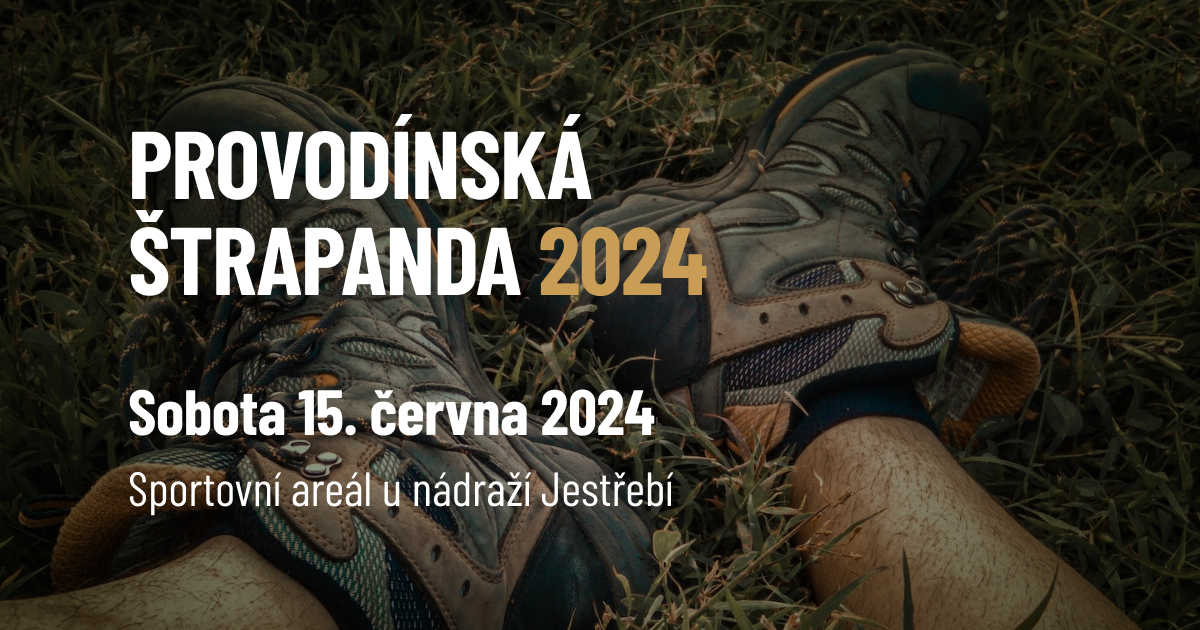
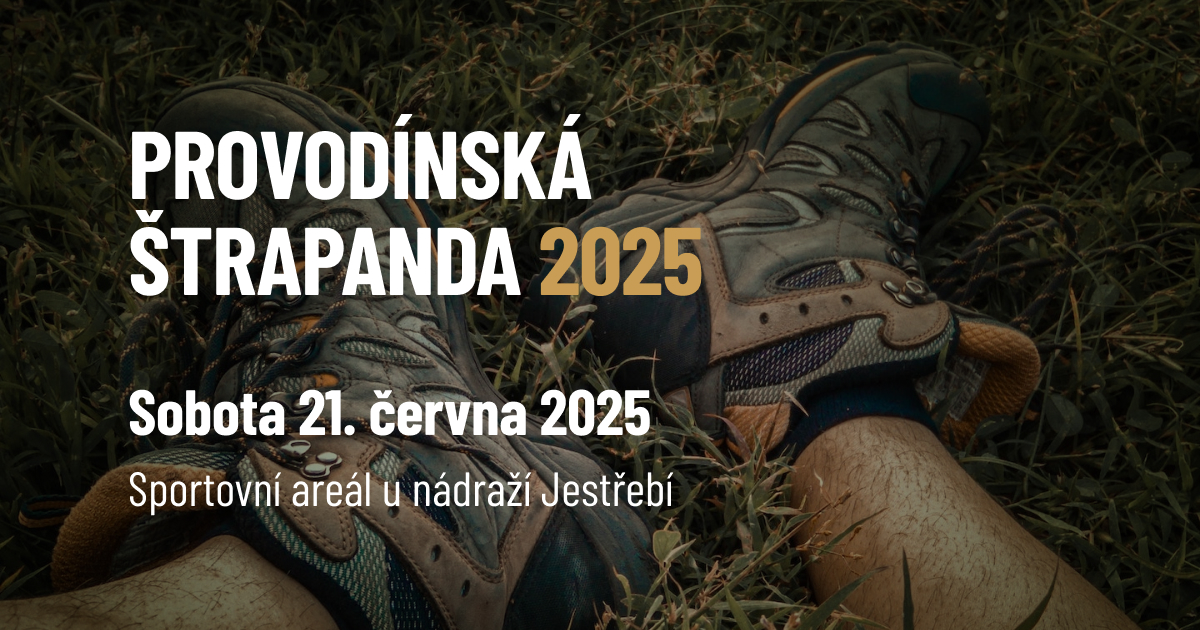
Prepare for next year

Changed region(s): [[0.2467, 0.6032, 0.555, 0.6937], [0.555, 0.3619, 0.5858, 0.4825]]

diff --git a/src/configs/structured-data.ts b/src/configs/structured-data.ts
@@ -3,9 +3,9 @@ import type { Event, WithContext } from 'schema-dts';
 export const eventStructuredData: WithContext<Event> = {
   '@context': 'https://schema.org',
   '@type': 'Event',
-  name: 'PROVODÍNSKÁ ŠTRAPANDA 2024',
-  startDate: '2024-06-15',
-  endDate: '2024-06-15',
+  name: 'PROVODÍNSKÁ ŠTRAPANDA 2025',
+  startDate: '2025-06-21',
+  endDate: '2025-06-21',
   eventAttendanceMode: 'https://schema.org/OfflineEventAttendanceMode',
   eventStatus: 'https://schema.org/EventScheduled',
   location: {
